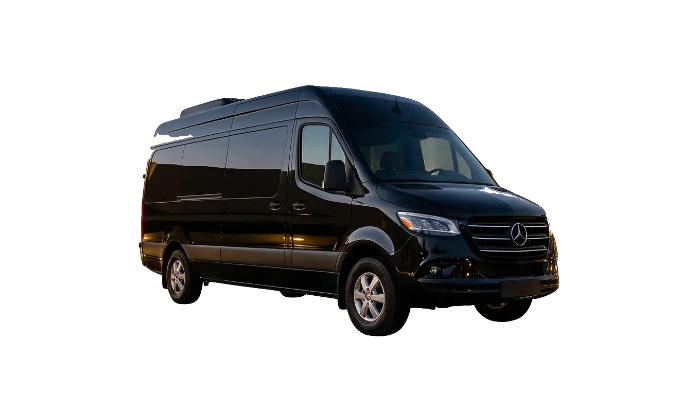
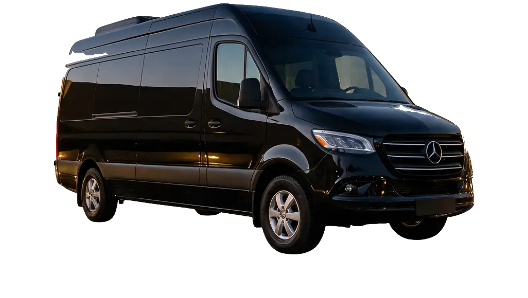
Give the four cars the same size in the row
The cars ran from 60.3% of their frame to 81.0%, and it was the wrong way
round: transit and sprinter — the two largest vehicles — filled the least
frame, so a Sprinter read as smaller than an E-Class with "1–12
Passengers" printed underneath it. The two vans shared an identical crop
box, so they were undersized by exactly the same amount; the sedan and SUV
had been cut separately and were both near 80%.

Re-cropped, not rescaled. Each frame is pulled in around its own car until
the car is 80% of the frame width and the wheels sit 14.5% off the bottom,
so the pixels are untouched and only the window changes. Scaling the vans
up 1.33x instead would have been the same information in a bigger file,
and softer.

The frames are no longer all one size (528×298 to 709×400) and do not need
to be: they share an aspect ratio and a content fraction, which is what the
card actually renders on.

The one measurable cost: cover-cropping into the 1.40 card frame trims
~1px off each bumper. It is uniform across all four now, and invisible.

README updated — it described a square canvas none of these files ever
used, and now carries the fraction, the baseline and the resolution the
phone actually asks for (~873px; the vans are at 528 and want new shots).

Claude-Session: https://claude.ai/code/session_011rXqxRhUQR5LvHyF3pprsK

diff --git a/public/fleet/README.md b/public/fleet/README.md
@@ -36,9 +36,27 @@ Shoot/source them the same way:
   glaring on a dark card, which is how it shipped once.
   Check any new cut BOTH ways before shipping: on magenta, where a breach in
   glass is unmissable, and on the card's own dark ground, where a pale rim is.
-- **Square canvas, car centred**, front three-quarter view facing left — so
-  the four rows read as one set.
-- ~1280×1280 is plenty. They render into a 78×46 box, so keep them light.
+- **Car centred, at 80% of the frame width**, front three-quarter view facing
+  left, with the wheels 14.5% of the frame height off the bottom — so the
+  four rows read as one set. That fraction is the whole convention: it is
+  what makes a Sprinter and an E-Class sit at a comparable size in the row
+  whatever the source shot was framed like.
+
+  This was written as "square canvas, car centred" and none of the four
+  files were square — they were 700×395, and the car ran from 60.3% of the
+  frame (transit, sprinter) to 81.0% (suv). The two largest vehicles filled
+  the least frame, so the row read as though a Sprinter were smaller than a
+  sedan. They were re-cropped, not rescaled: each frame was pulled in around
+  its own car until the fraction matched, so the car pixels are untouched
+  and only the window changed. Frames are therefore no longer all one size
+  (528×298 to 709×400) — they do not need to be, because they share an
+  aspect ratio and a content fraction, which is what the card renders on.
+- The frame ratio is ~1.77. `.fshot` renders at ~1.40 with `object-fit:cover`,
+  which trims about a pixel off each bumper — uniform across all four, and
+  invisible. Change the ratio and check that again.
+- They render into 291×208 CSS px on a phone, so a 3× screen wants ~873px of
+  width. At 528px the two vans are already under-resolved: new source shots
+  are the only real fix, and 1280 wide would be the target.
 
 ## How the current four were made
 
